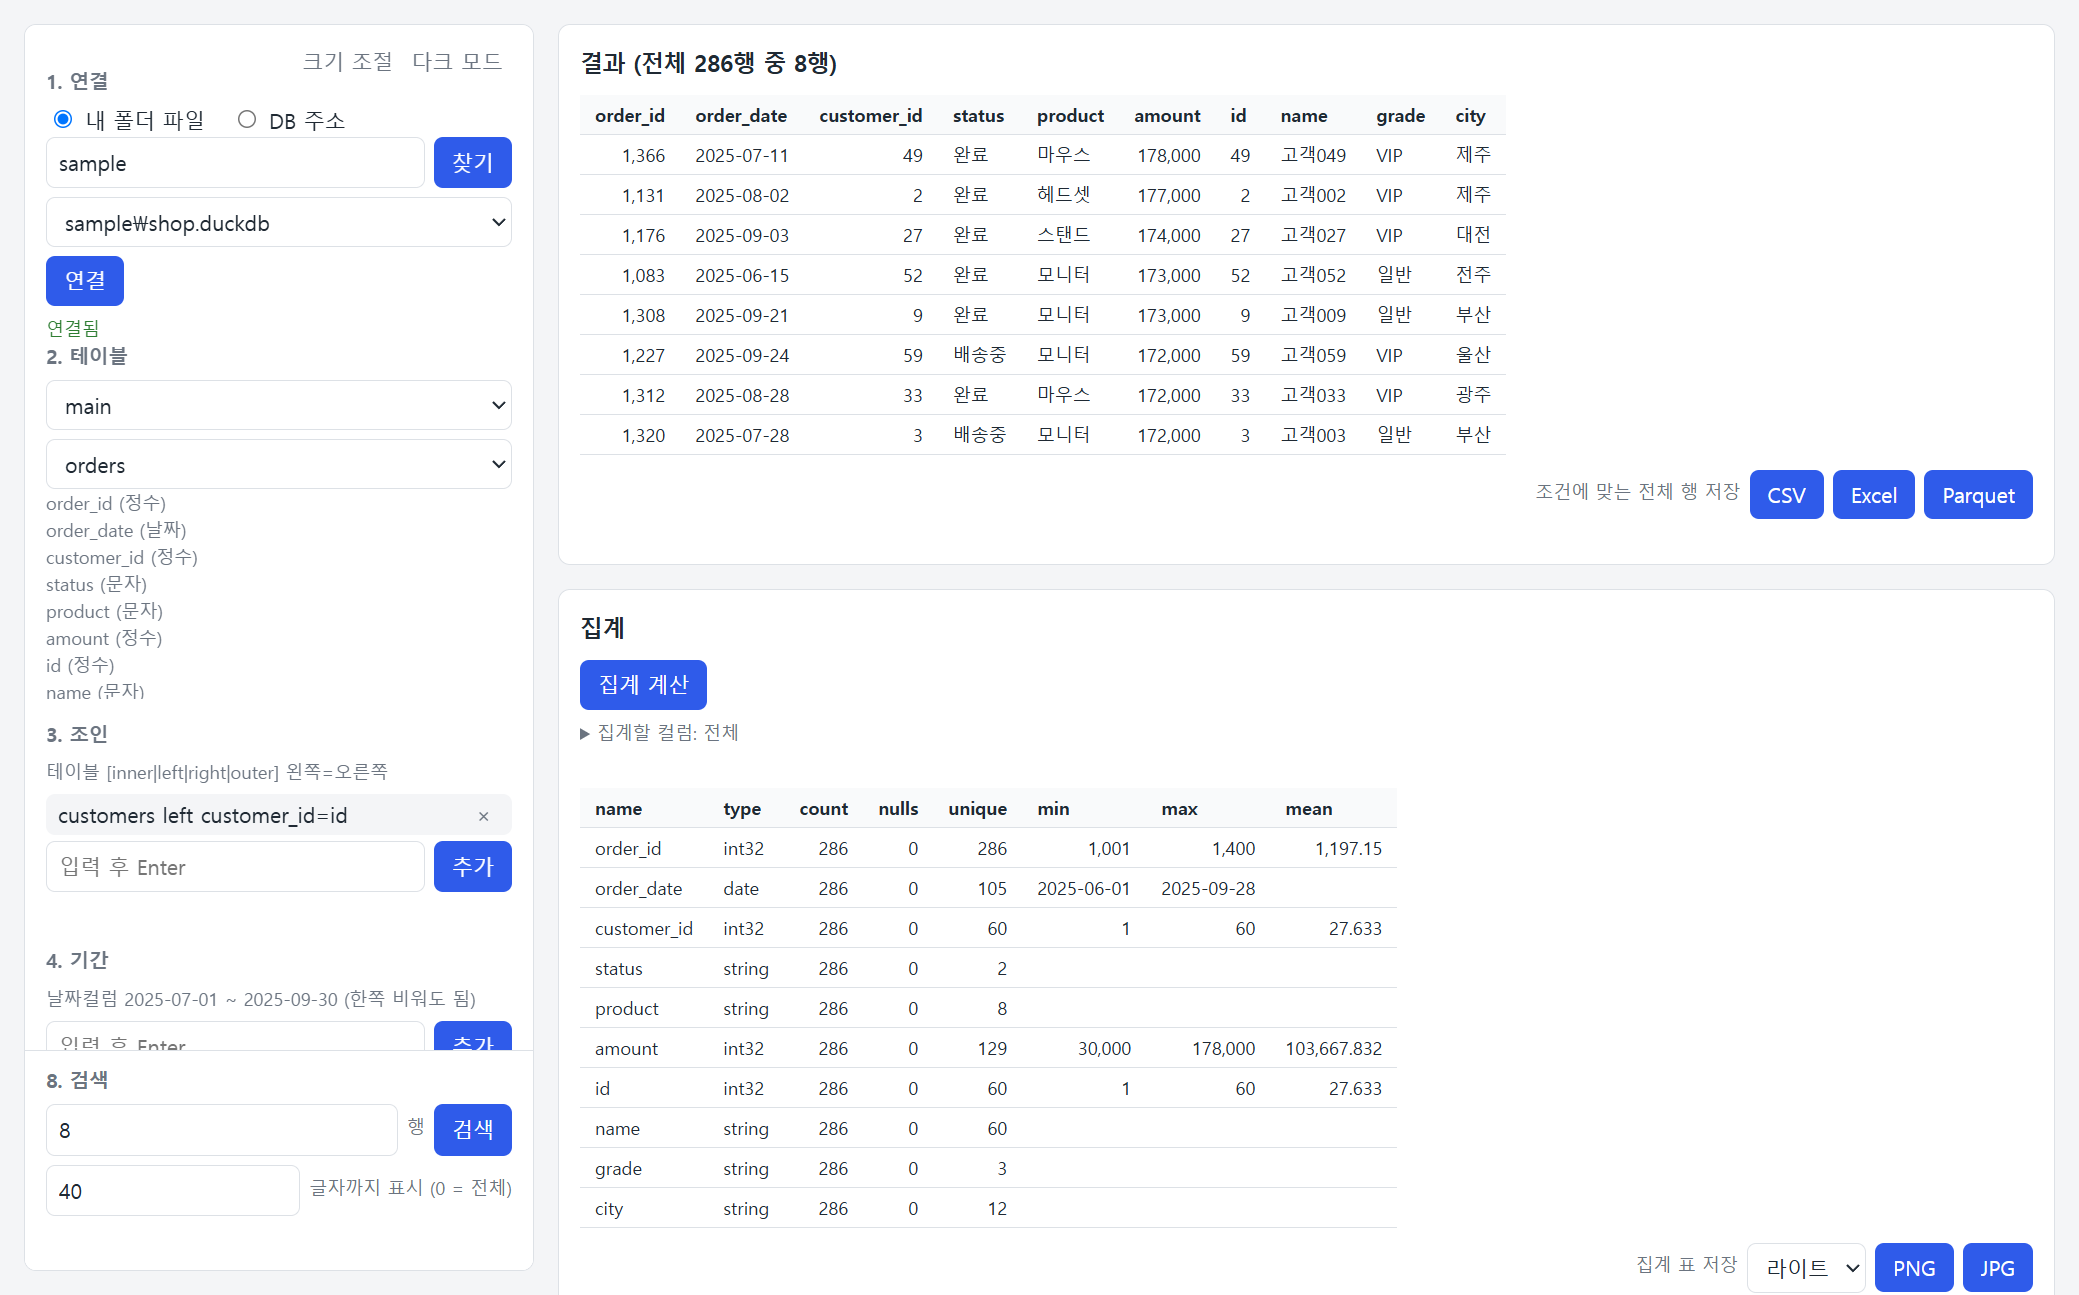
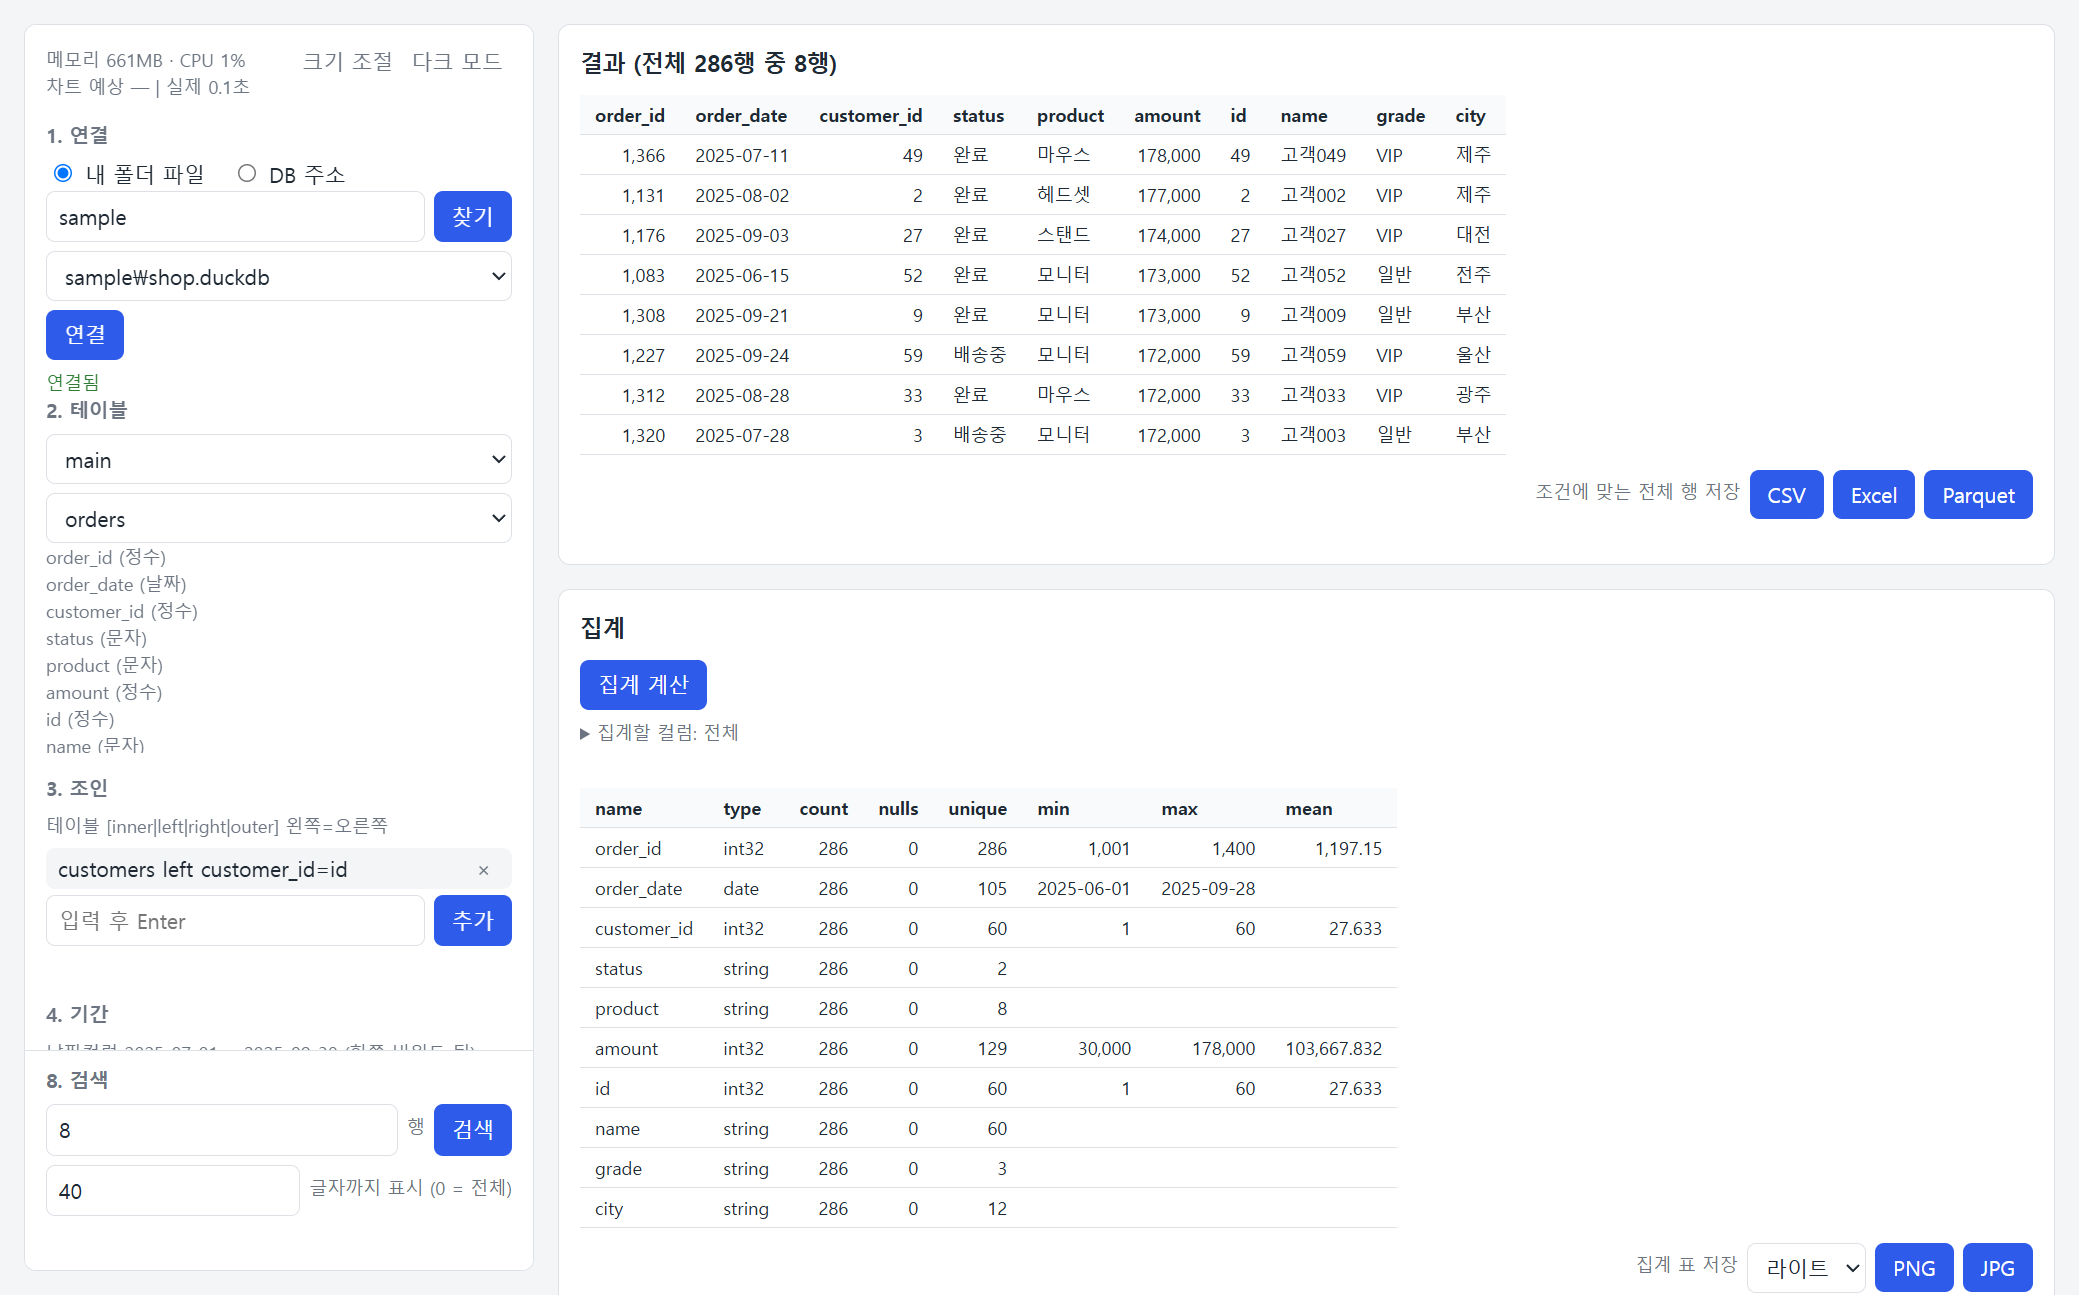
패널 위에 메모리·CPU와 작업 시간(예상 | 실제) 표시
- 이 프로그램(화면 포함)의 메모리·CPU를 2초마다 표시 (psutil)
- 검색·집계·차트·저장의 예상 | 경과·실제 시간 표시
- 예상은 테이블 행 수 × 직전 실행의 행당 시간, 설정 파일에 기억
- 조회 중에도 답하도록 서버를 동시 요청 방식으로 띄우고 조회는 잠금으로 하나씩 처리
- README 설명과 화면 그림 갱신

diff --git a/static/index.html b/static/index.html
@@ -40,6 +40,8 @@
   input, select, button { font:inherit; padding:6px 8px; border:1px solid var(--line); border-radius:6px; width:100%; }
   input, select { background:var(--card); color:var(--text); }
   #theme, #resize { float:right; }
+  #usage, #timing { margin:0; white-space:nowrap; font-variant-numeric:tabular-nums; }
+  #timing { margin-bottom:6px; }
   button { background:var(--accent); color:#fff; border:none; cursor:pointer; width:auto; padding:6px 12px; flex:none; white-space:nowrap; }
   button:disabled { opacity:.55; cursor:wait; }
   .row input { flex:1; min-width:0; }
@@ -105,6 +107,8 @@
   <aside class="panel">
     <button id="theme" class="ghost"></button>
     <button id="resize" class="ghost" title="켜면 패널·표·차트의 경계를 끌어 크기를 바꿀 수 있습니다"></button>
+    <div class="hint" id="usage" title="이 프로그램(화면 포함)이 쓰는 메모리와 CPU. DB 주소로 연결하면 연산은 DB 서버가 합니다">&nbsp;</div>
+    <div class="hint" id="timing" title="예상: 테이블 행 수 × 직전 실행의 행당 시간. 조건에 따라 빗나갈 수 있습니다">&nbsp;</div>
     <h2>1. 연결</h2>
     <div class="tabs">
       <label><input type="radio" name="kind" value="folder" checked style="width:auto"> 내 폴더 파일</label>
@@ -280,6 +284,39 @@ async function busy(button, fn) {
   button.textContent = "…";
   try { return await fn(); }
   finally { button.disabled = false; button.textContent = label; button.style.minWidth = ""; }
+}
+
+// 상단 표시: 메모리·CPU는 2초마다 읽는다.
+async function showUsage() {
+  try { const d = await api("/api/usage"); $("usage").textContent = `메모리 ${d.memory.toLocaleString()}MB · CPU ${d.cpu}%`; } catch (e) {}
+}
+showUsage();
+setInterval(showUsage, 2000);
+// 작업 시간: "예상 | 경과"가 흐르다가 끝나면 "예상 | 실제"로 남는다.
+// 예상 = 기준 테이블 행 수 × 그 작업 종류의 직전 행당 시간(나노초/행, 설정으로 기억). 한 번도 안 해 본 종류는 "—".
+const KINDS = { search: "검색", summary: "집계", chart: "차트", export: "저장" };
+const rates = Object.fromEntries(Object.keys(KINDS).map(k => [k, +saved("time_" + k) || 0]));
+const secs = ms => (ms / 1000).toFixed(1) + "초";
+let timer, running = 0;
+async function timed(kind, fn) {
+  const start = performance.now(), run = ++running;
+  let guess = "—", rows = 0;
+  const show = word => { if (run === running) $("timing").textContent = `${KINDS[kind]}  예상 ${guess} | ${word} ${secs(performance.now() - start)}`; };
+  clearInterval(timer);
+  timer = setInterval(() => show("경과"), 100);
+  try {
+    rows = (await api("/api/rowcount", { schema: S.schema, base: S.base })).rows;
+    if (rows && rates[kind]) guess = secs(rates[kind] * rows / 1e6);
+    const out = await fn();
+    if (rows) {
+      rates[kind] = Math.min(Math.max(Math.round((performance.now() - start) * 1e6 / rows), 1), 1e12);
+      saveSetting({ ["time_" + kind]: rates[kind] });
+    }
+    return out;
+  } finally {
+    if (run === running) clearInterval(timer);
+    show("실제");
+  }
 }
 
 // 1. 연결
@@ -530,7 +567,7 @@ $("search").onclick = () => {
   return busy($("search"), async () => {
     try {
       // 행 수는 입력한 그대로 보낸다. 0·음수·빈칸은 서버가 안내한다.
-      const d = await api("/api/query", { ...state(), limit: $("limit").value });
+      const d = await timed("search", () => api("/api/query", { ...state(), limit: $("limit").value }));
       $("rows-title").textContent = `결과 (전체 ${d.count.toLocaleString()}행 중 ${d.rows.rows.length}행)`;
       last = { rows: d.rows, summary: null };  // 이전 조건의 집계는 지운다.
       renderTables();
@@ -544,7 +581,7 @@ $("summarize").onclick = () => {
   return busy($("summarize"), async () => {
     const before = last;
     try {
-      const { summary } = await api("/api/summary", { ...state(), summary_columns: checked($("scols")) });
+      const { summary } = await timed("summary", () => api("/api/summary", { ...state(), summary_columns: checked($("scols")) }));
       if (last !== before) return;  // 계산하는 사이 새로 검색했으면 버린다.
       last = { ...last, summary };
       renderTables();
@@ -568,8 +605,8 @@ document.querySelectorAll("[data-export]").forEach(b => b.onclick = () => {
   const format = b.dataset.export;
   return busy(b, async () => {
     try {
-      const res = await send("/api/export", { ...state(), format });
-      download(URL.createObjectURL(await res.blob()), "result." + format);
+      const blob = await timed("export", async () => (await send("/api/export", { ...state(), format })).blob());
+      download(URL.createObjectURL(blob), "result." + format);
       $("err-export").textContent = "";
     } catch (e) { $("err-export").textContent = e.message; }
   });
@@ -645,7 +682,7 @@ function drawChart() {
 $("draw").onclick = () => busy($("draw"), async () => {
   try {
     const used = series.length ? series : [seriesNow()], split = $("csplit").value;
-    const d = await api("/api/chart", { ...state(), x: $("cx").value, split, order: $("corder").value, series: used.map(s => ({ y: s.y, agg: s.agg })) });
+    const d = await timed("chart", () => api("/api/chart", { ...state(), x: $("cx").value, split, order: $("corder").value, series: used.map(s => ({ y: s.y, agg: s.agg })) }));
     // 계열 이름: 나누지 않으면 계열 이름, 나누면 나눈 값(계열이 여럿이면 "계열 · 값").
     const label = k => !split ? seriesName(used[k.series]) : used.length > 1 ? `${seriesName(used[k.series])} · ${k.split}` : k.split;
     drawn = { labels: d.labels, datasets: d.datasets.map(k => ({ ...used[k.series], label: label(k), values: k.values })) };

diff --git a/app.py b/app.py
@@ -5,18 +5,21 @@ import operator
 import secrets
 import shutil
 import tempfile
+import threading
 from pathlib import Path
 
-from flask import Flask, Response, abort, jsonify, request
+from flask import Flask, Response, abort, g, jsonify, request
 from werkzeug.exceptions import HTTPException
 
+import monitor
 import parse
 import result
 import settings
 import source
 
 app = Flask(__name__, static_folder="static")
-state = {"con": None, "password": "", "opened": None}  # 연결은 메모리에만 둔다. opened는 다시 열 때 쓸 요청 값.
+state = {"con": None, "password": "", "opened": None, "rows": {}}  # 연결은 메모리에만 둔다. opened는 다시 열 때 쓸 요청 값. rows는 세어 둔 테이블 행 수.
+turn = threading.Lock()  # 연결 하나를 같이 쓰므로 요청은 한 번에 하나만 처리한다. 메모리·CPU 요청만 기다리지 않는다.
 KEY = secrets.token_urlsafe(32)  # 실행할 때마다 새로 만드는 열쇠. desktop.py가 창 주소에 넣는다.
 
 
@@ -76,6 +79,33 @@ def only_window():
         abort(403, "프로그램 창에서만 열 수 있습니다.")
 
 
+@app.before_request
+def wait_turn():
+    if request.path != "/api/usage":
+        turn.acquire()
+        g.turn = True
+
+
+@app.teardown_request
+def end_turn(error):
+    if g.pop("turn", False):
+        turn.release()
+
+
+@app.get("/api/usage")
+def usage():
+    return jsonify(monitor.usage())
+
+
+@app.post("/api/rowcount")
+def rowcount():
+    """기준 테이블의 전체 행 수. 예상 시간을 구할 때 쓴다. 테이블마다 한 번만 세고 연결이 바뀔 때까지 기억한다."""
+    schema, base = request.json.get("schema") or None, request.json["base"]
+    if (schema, base) not in state["rows"]:
+        state["rows"][schema, base] = result.get_count(source.get_table(get_con(), base, schema))
+    return jsonify(rows=state["rows"][schema, base])
+
+
 @app.get("/")
 def index():
     response = app.send_static_file("index.html")
@@ -124,6 +154,7 @@ def connect():
     if state["con"] is not None:  # 이전 연결을 닫아야 같은 파일을 다시 열 수 있다.
         source.close(state["con"])
         state.update(con=None, password="", opened=None)
+    state["rows"] = {}
     try:
         con = open_con(new)
     except Exception as e:
@@ -143,7 +174,7 @@ def disconnect():
     """연결을 끊고 파일·접속을 놓는다. 연결이 없으면 아무 일도 하지 않는다."""
     if state["con"] is not None:
         source.close(state["con"])
-    state.update(con=None, password="", opened=None)
+    state.update(con=None, password="", opened=None, rows={})
     return jsonify(ok=True)
 
 

diff --git a/settings.py b/settings.py
@@ -1,4 +1,4 @@
-"""사용자 설정(화면 모드, 차트 비율, 차트 저장 모드, 따옴표 해석, 끌어서 조절한 크기)을 사용자 폴더의 파일에 저장해 다음 실행 때도 쓴다."""
+"""사용자 설정(화면 모드, 차트 비율, 차트 저장 모드, 따옴표 해석, 끌어서 조절한 크기, 직전 실행의 행당 시간)을 사용자 폴더의 파일에 저장해 다음 실행 때도 쓴다."""
 import json
 import os
 from pathlib import Path
@@ -18,7 +18,14 @@ CHOICES = {
 SIZES = {"panel": (240, 640), "rows": (120, 1200), "summary": (120, 1200), "chart": (200, 1000)}
 
 
+# 직전 실행의 행당 시간(나노초/행). 작업 종류(검색·집계·차트·저장)마다 하나. 화면이 예상 시간을 구할 때 쓴다.
+TIMES = ["time_search", "time_summary", "time_chart", "time_export"]
+MAX_TIME = 10**12
+
+
 def valid(name, value):
+    if name in TIMES:
+        return type(value) is int and 1 <= value <= MAX_TIME
     if name in SIZES:
         return type(value) is int and SIZES[name][0] <= value <= SIZES[name][1]
     return value in CHOICES.get(name, [])

diff --git a/monitor.py b/monitor.py
@@ -1,0 +1,24 @@
+"""이 프로그램이 쓰는 메모리와 CPU. 화면을 그리는 WebView2 같은 자식 프로세스도 더한다."""
+import time
+
+import psutil
+
+ME = psutil.Process()
+last = {"at": None, "cpu": 0.0}  # 직전에 잰 시각과 그때까지 쓴 CPU 시간(초)
+
+
+def usage():
+    """메모리(MB)와, 직전 호출 뒤로 쓴 CPU(%, PC의 전체 코어가 100). 첫 호출의 CPU는 0."""
+    memory = cpu = 0
+    for process in [ME, *ME.children(recursive=True)]:
+        try:
+            with process.oneshot():
+                memory += process.memory_info().rss
+                times = process.cpu_times()
+                cpu += times.user + times.system
+        except psutil.Error:  # 재는 사이에 끝난 프로세스
+            continue
+    now = time.monotonic()
+    percent = 0 if last["at"] is None else max(0, cpu - last["cpu"]) / max(now - last["at"], 0.001) / psutil.cpu_count() * 100
+    last.update(at=now, cpu=cpu)
+    return {"memory": round(memory / 2**20), "cpu": round(min(percent, 100))}

diff --git a/desktop.py b/desktop.py
@@ -7,7 +7,7 @@ from werkzeug.serving import make_server
 
 from app import KEY, app
 
-server = make_server("127.0.0.1", 0, app)  # 0: 비어 있는 포트를 자동으로 고른다.
+server = make_server("127.0.0.1", 0, app, threaded=True)  # 0: 비어 있는 포트를 자동으로 고른다. threaded: 조회 중에도 메모리·CPU 요청에 답한다.
 threading.Thread(target=server.serve_forever, daemon=True).start()
 
 webview.settings["ALLOW_DOWNLOADS"] = True  # 결과·차트 내보내기

diff --git a/README.md b/README.md
@@ -297,6 +297,19 @@ status, amount
 
 ## 화면 설정
 
+### 메모리·CPU와 걸린 시간
+
+패널 맨 위에 두 줄이 표시됩니다.
+
+| 줄 | 내용 |
+|---|---|
+| `메모리 312MB · CPU 45%` | 이 프로그램(화면 포함)이 쓰는 메모리와 CPU. 2초마다 바뀝니다. CPU는 PC의 전체 코어를 100%로 본 값입니다 |
+| `검색  예상 1.2초 \| 실제 0.9초` | 검색, 집계, 차트, 저장에 걸린 시간. 실행하는 동안에는 `실제` 자리에 `경과`가 흐릅니다 |
+
+예상 시간은 테이블의 행 수에 직전 실행의 행당 시간을 곱한 어림값입니다. 조건이나 조인에 따라 빗나갈 수 있고, 그 작업을 한 번도 하지 않았으면 `—`로 나옵니다. 직전 실행의 시간은 프로그램을 껐다 켜도 기억합니다. 테이블의 행 수는 테이블마다 처음 한 번만 세는데, 원격 DB의 큰 테이블에서는 이때 시간이 걸릴 수 있습니다.
+
+DB 주소로 연결하면 연산은 DB 서버가 하므로 메모리와 CPU는 거의 움직이지 않습니다. GPU는 쓰지 않습니다.
+
 ### 화면 모드
 
 패널 오른쪽 위의 [다크 모드] / [라이트 모드]를 누르면 바뀝니다. 처음에는 Windows 설정을 따릅니다. 라이트 모드는 맨 위의 그림이고, 다크 모드는 아래와 같습니다.
